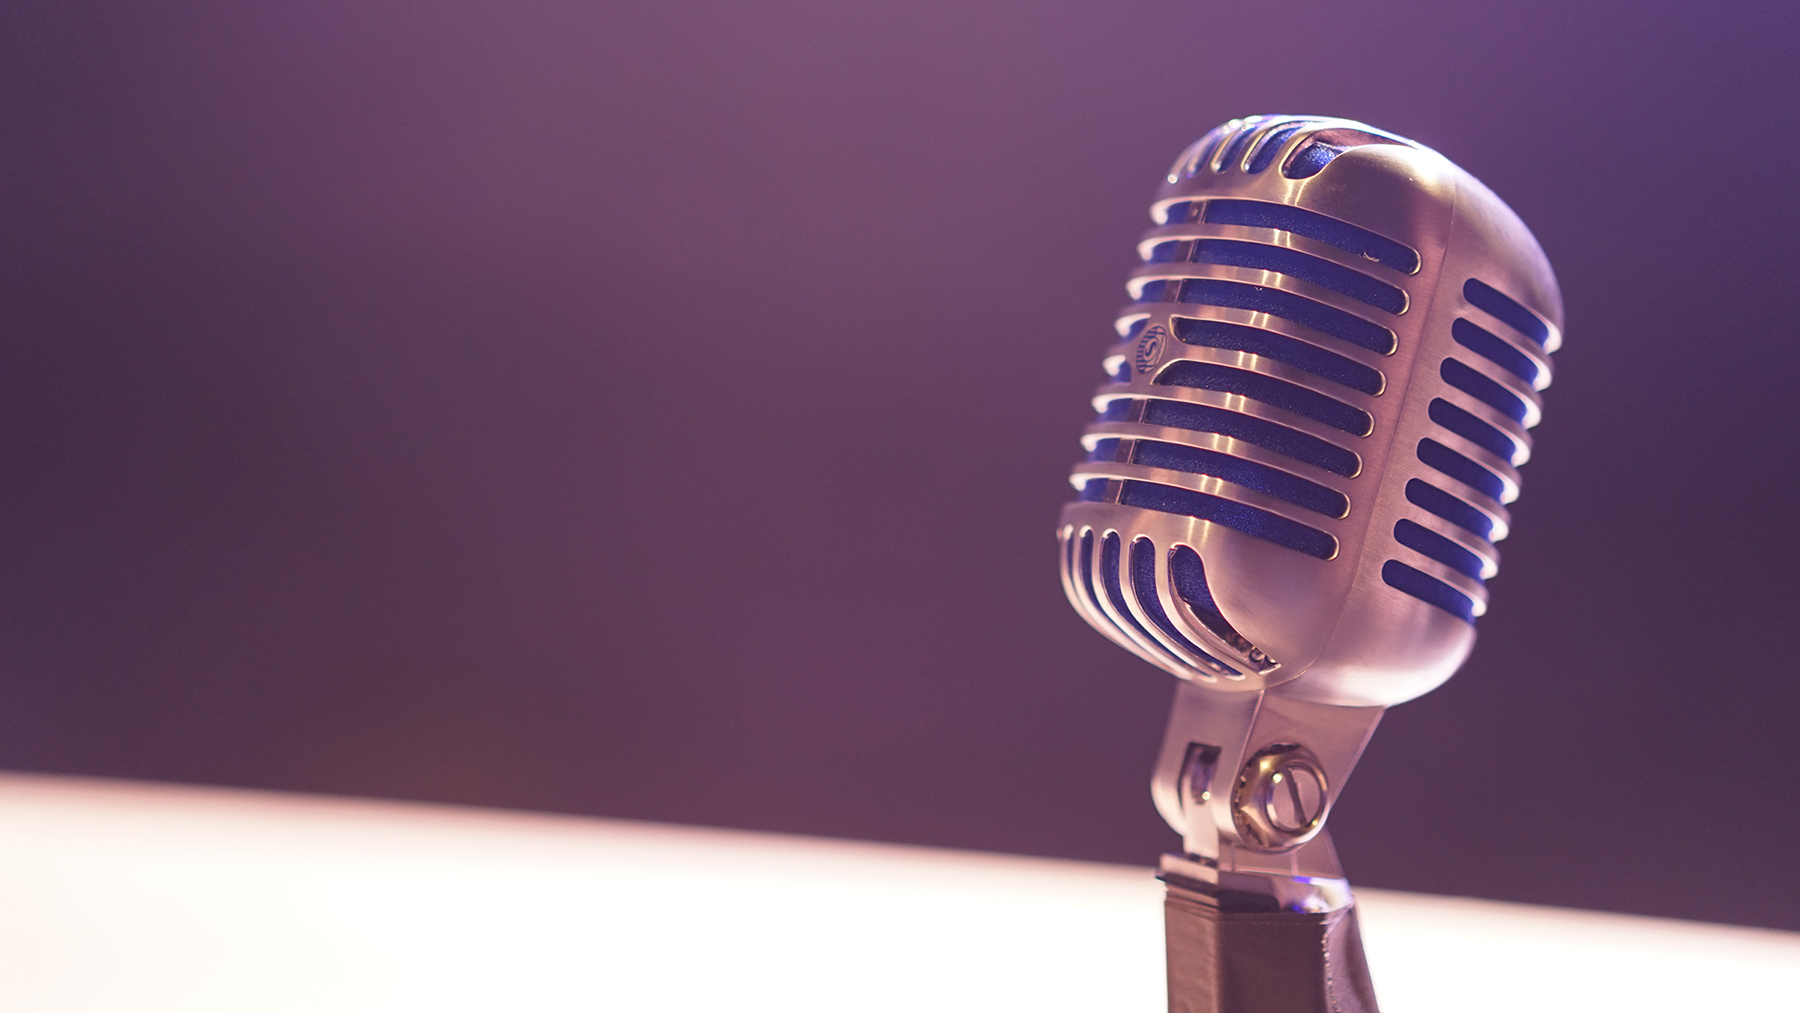
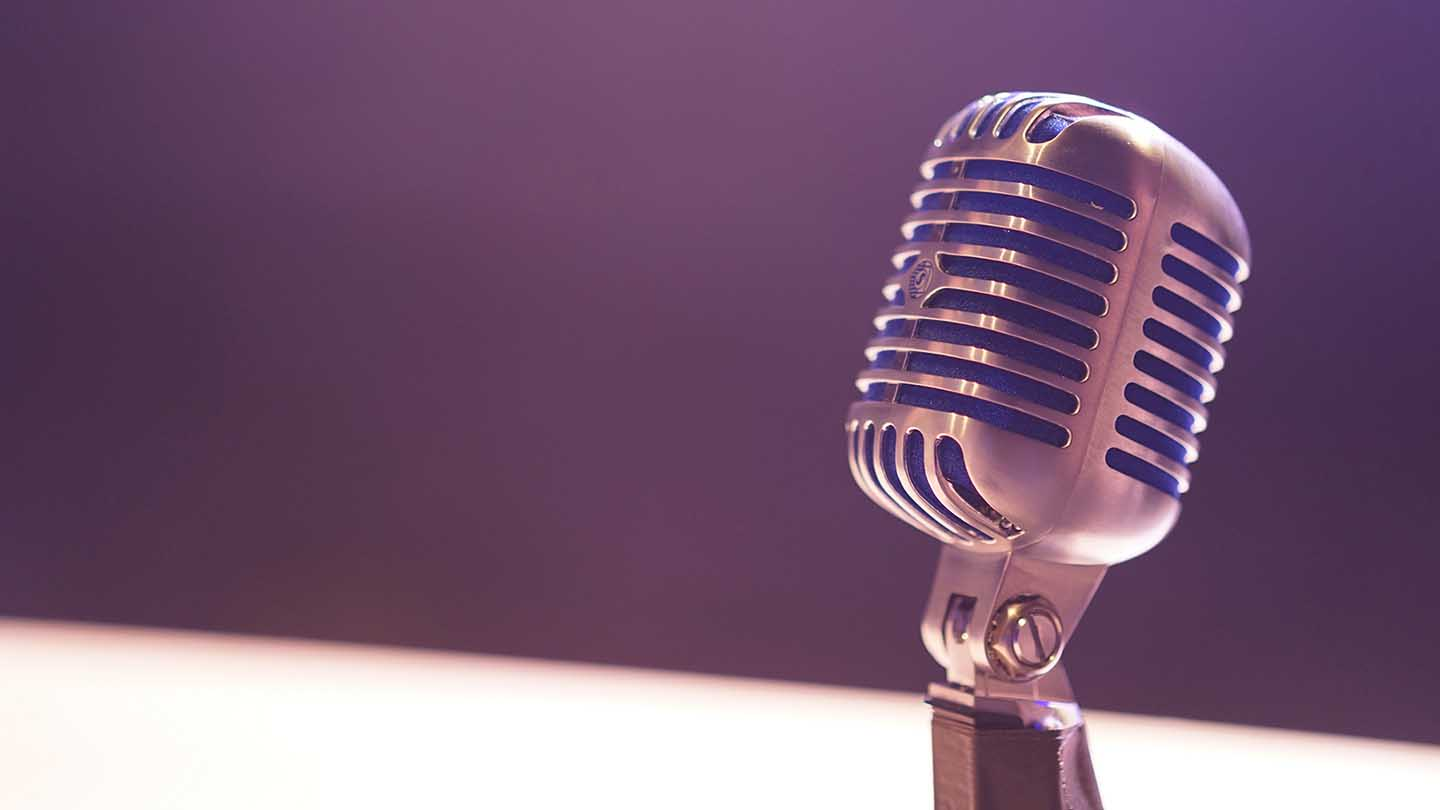
support for thumbnail imgs

diff --git a/src/podcasts/templates/index.html b/src/podcasts/templates/index.html
@@ -18,7 +18,7 @@
         <h4 class="featured__title">Izpostavljeni podcasti</h4>
         {% for podcast in featured_podcasts %}
             <a href="{% url 'podcast' podcast_slug=podcast.slug %}">
-                <img src="{{ podcast.image.url }}" alt="{{ podcast.name }}" class="featured__image">
+                <img src="{{ podcast.image }}" alt="{{ podcast.name }}" class="featured__image">
             </a>
         {% endfor %}
         <a href="{% url 'all-podcasts' %}" class="featured__all">Seznam vseh podcastov</a>

diff --git a/src/podcasts/templates/podcast.html b/src/podcasts/templates/podcast.html
@@ -28,9 +28,9 @@
         <hr>
 
         <div class="grid-x grid-margin-x podcast">
-            {% if podcast.image %}
+            {% if podcast_image %}
                 <div class="shrink cell">
-                    <img src="{{ podcast.image.url }}" alt="{{ podcast.name }}" class="episode__image">
+                    <img src="{{ podcast_image }}" alt="{{ podcast.name }}" class="episode__image">
                 </div>
             {% endif %}
             <div class="auto cell podcast__content">

diff --git a/src/podcasts/views.py b/src/podcasts/views.py
@@ -4,8 +4,11 @@ from django.shortcuts import get_object_or_404
 from django.views.generic import TemplateView
 
 from podcasts.models import Episode, Podcast
+from podcasts.utils.images import get_thumbnail_url
 from podcasts.utils.stats import track_episode, track_podcast
 from podcasts.utils.time import pretty_date
+
+from sorl.thumbnail import get_thumbnail
 
 
 def health(request):
@@ -21,21 +24,28 @@ class IndexView(TemplateView):
 
     def get_context_data(self, **kwargs):
         context = super().get_context_data(**kwargs)
-
-        episodes = []
-
         page = self.request.GET.get('page')
+
+        featured_podcasts = []
+        featured = Podcast.objects.order_by('?')[:8]
+        for podcast in featured:
+            featured_podcasts.append({
+                'slug': podcast.slug,
+                'image': get_thumbnail_url(podcast.image, '130x130'),
+                'name': podcast.name
+            })
 
         latest_episodes = Episode.objects.order_by('-published_datetime')
         paginator = Paginator(latest_episodes, 30)
         latest_episodes = paginator.get_page(page)
 
+        episodes = []
         for episode in latest_episodes:
             episodes.append({
                 'title': episode.title,
                 'podcast_name': episode.podcast.name,
                 'published': pretty_date(episode.published_datetime),
-                'image': episode.podcast.image.url,
+                'image': get_thumbnail_url(episode.podcast.image, '130x130'),
                 'slug': episode.slug,
                 'podcast_slug': episode.podcast.slug,
                 'external_url': episode.url,
@@ -56,7 +66,7 @@ class IndexView(TemplateView):
             },
             'latest_episodes': episodes,
             'paginator': latest_episodes,
-            'featured_podcasts': Podcast.objects.order_by('?')[:8]
+            'featured_podcasts': featured_podcasts
         })
         return context
 
@@ -124,6 +134,7 @@ class PodcastView(TemplateView):
                 'subtitle': 'Seznam vseh slovenskih podcastov'
             },
             'podcast': podcast,
+            'podcast_image': get_thumbnail_url(podcast.image, '130x130'),
             'episodes': episodes,
             'paginator': latest_episodes
         })

diff --git a/src/podcasts/settings.py b/src/podcasts/settings.py
@@ -35,6 +35,7 @@ INSTALLED_APPS = (
     'django.contrib.sitemaps',
     'rest_framework',
     'storages',
+    'sorl.thumbnail',
     'podcasts',
 )
 
@@ -105,6 +106,7 @@ AWS_STORAGE_BUCKET_NAME = env.str('AWS_STORAGE_BUCKET_NAME', default=None)
 AWS_S3_REGION_NAME = env.str('AWS_REGION', default=None)
 AWS_ACCESS_KEY_ID = env.str('AWS_ACCESS_KEY_ID', default=None)
 AWS_SECRET_ACCESS_KEY = env.str('AWS_SECRET_ACCESS_KEY', default=None)
+AWS_QUERYSTRING_AUTH = False
 MEDIA_URL = env.str('MEDIA_URL', default='/media/')
 if DEBUG:
     DEFAULT_FILE_STORAGE = 'django.core.files.storage.FileSystemStorage'
@@ -113,6 +115,8 @@ else:
     DEFAULT_FILE_STORAGE = 'storages.backends.s3boto3.S3Boto3Storage'
     AWS_S3_SIGNATURE_VERSION = 's3v4'
     MEDIA_ROOT = ''
+
+THUMBNAIL_FORCE_OVERWRITE = True
 
 LOGGING = {
     'version': 1,

diff --git a/src/podcasts/utils/images.py b/src/podcasts/utils/images.py
@@ -1,0 +1,10 @@
+from sorl.thumbnail import get_thumbnail
+
+
+def get_thumbnail_url(image, size):
+    thumbnail = get_thumbnail(image, size, crop='center', quality=100, format="PNG")
+    image_url = thumbnail.url.replace(
+        'https://s3.amazonaws.com',
+        'https://s3.eu-west-3.amazonaws.com'
+    )
+    return image_url
